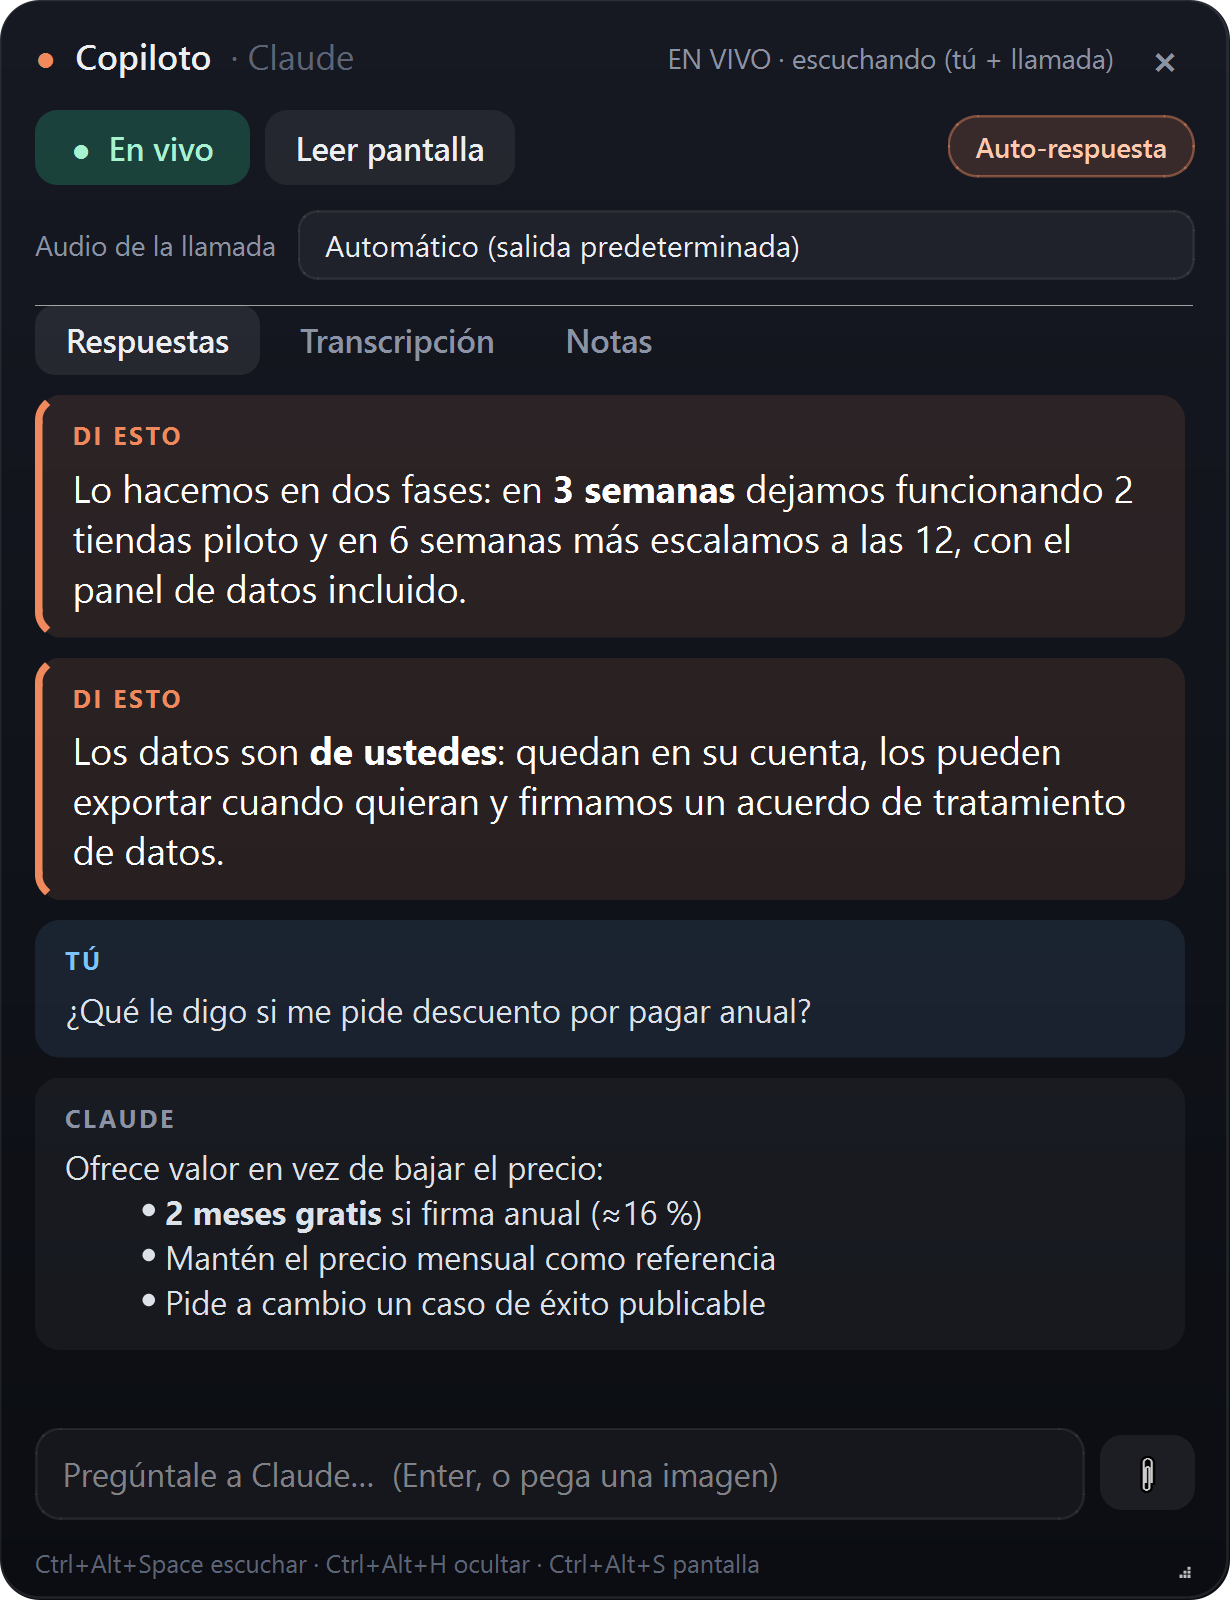
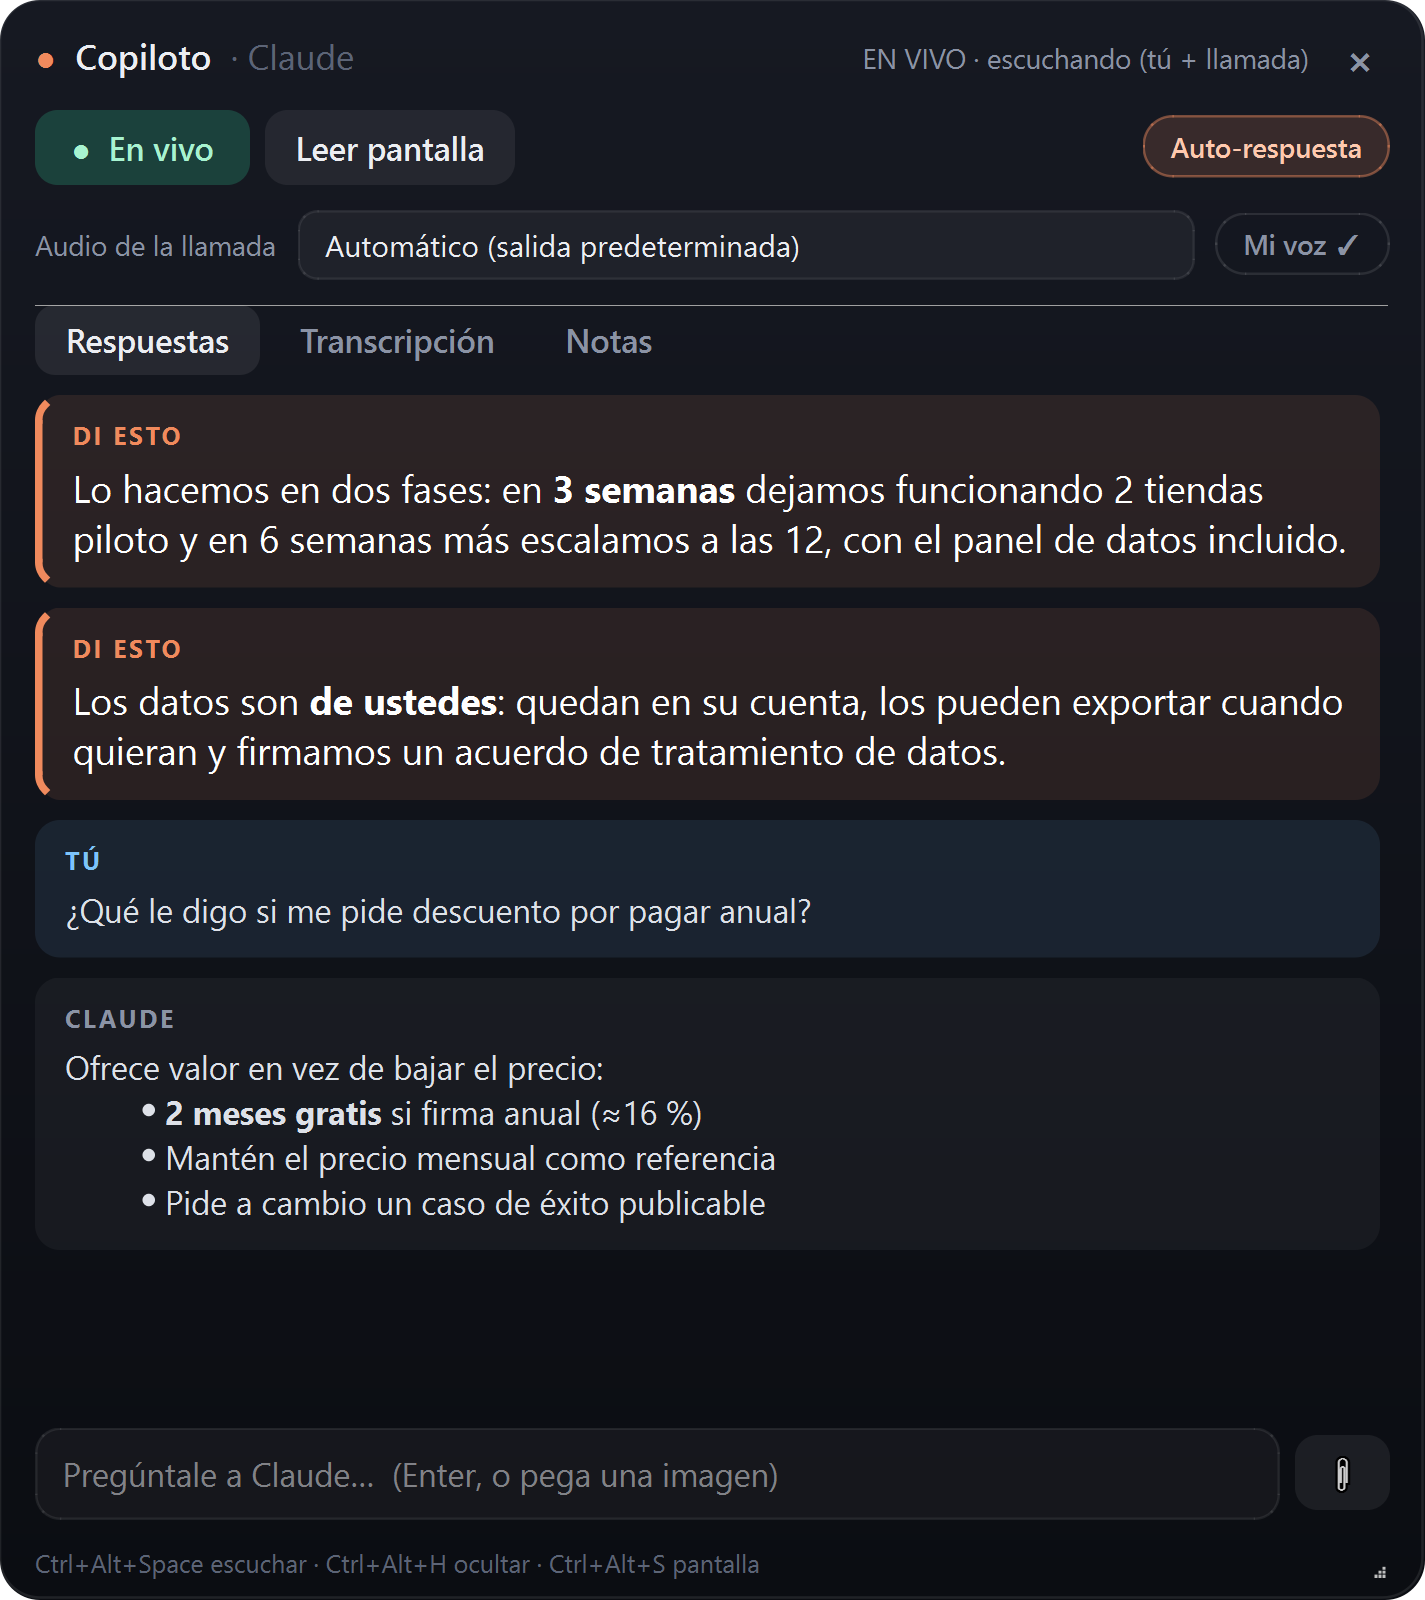
docs(screenshots): show the voice calibration card
Adds panel-calibrate.png and renders the other panels with a demo
voiceprint, so the "Mi voz ✓" chip shows. The real profile/ is never
read for screenshots.

diff --git a/scripts/screenshots.py b/scripts/screenshots.py
@@ -53,10 +53,23 @@ PARTICIPANTS = [
 
 
 def make_overlay(app, state):
-    from overlay import Overlay
+    import numpy as np
+    from overlay import CALIBRATION_STAGES, Overlay
 
     ov = Overlay()
     ov.resize(420, 640)
+    if state == "calibrate":       # halfway through reading the calibration text
+        ov._voiceprint = None
+        ov._update_voice_chip()
+        ov._show_calibration(then_listen=True)
+        ov.calib_start.setEnabled(False)
+        ov.calib_skip.setText("Cancelar")
+        ov.calib_msg.setText(CALIBRATION_STAGES["record"])
+        ov.calib_progress.setValue(550)
+        ov.calib_level.setValue(62)
+    else:                          # a demo voiceprint, never the real profile/
+        ov._voiceprint = np.ones(256, dtype=np.float32)
+        ov._update_voice_chip()
     if state in ("answers", "transcript"):
         ov._live = True
         ov._set_power(True)
@@ -243,6 +256,7 @@ def main():
     answers = make_overlay(app, "answers")
     transcript = make_overlay(app, "transcript")
     idle = make_overlay(app, "idle")
+    calibrate = make_overlay(app, "calibrate")
 
     hero = scene(answers, with_panel=True)
     hero.save(str(OUT / "hero.png"))
@@ -251,7 +265,7 @@ def main():
         .save(str(OUT / "invisible.png"))
     panels_row([idle, answers, transcript]).save(str(OUT / "panels.png"))
     for name, px in (("panel-answers", answers), ("panel-transcript", transcript),
-                     ("panel-idle", idle)):
+                     ("panel-idle", idle), ("panel-calibrate", calibrate)):
         px.save(str(OUT / f"{name}.png"))
     print(f"wrote {sorted(f.name for f in OUT.glob('*.png'))}")
 
